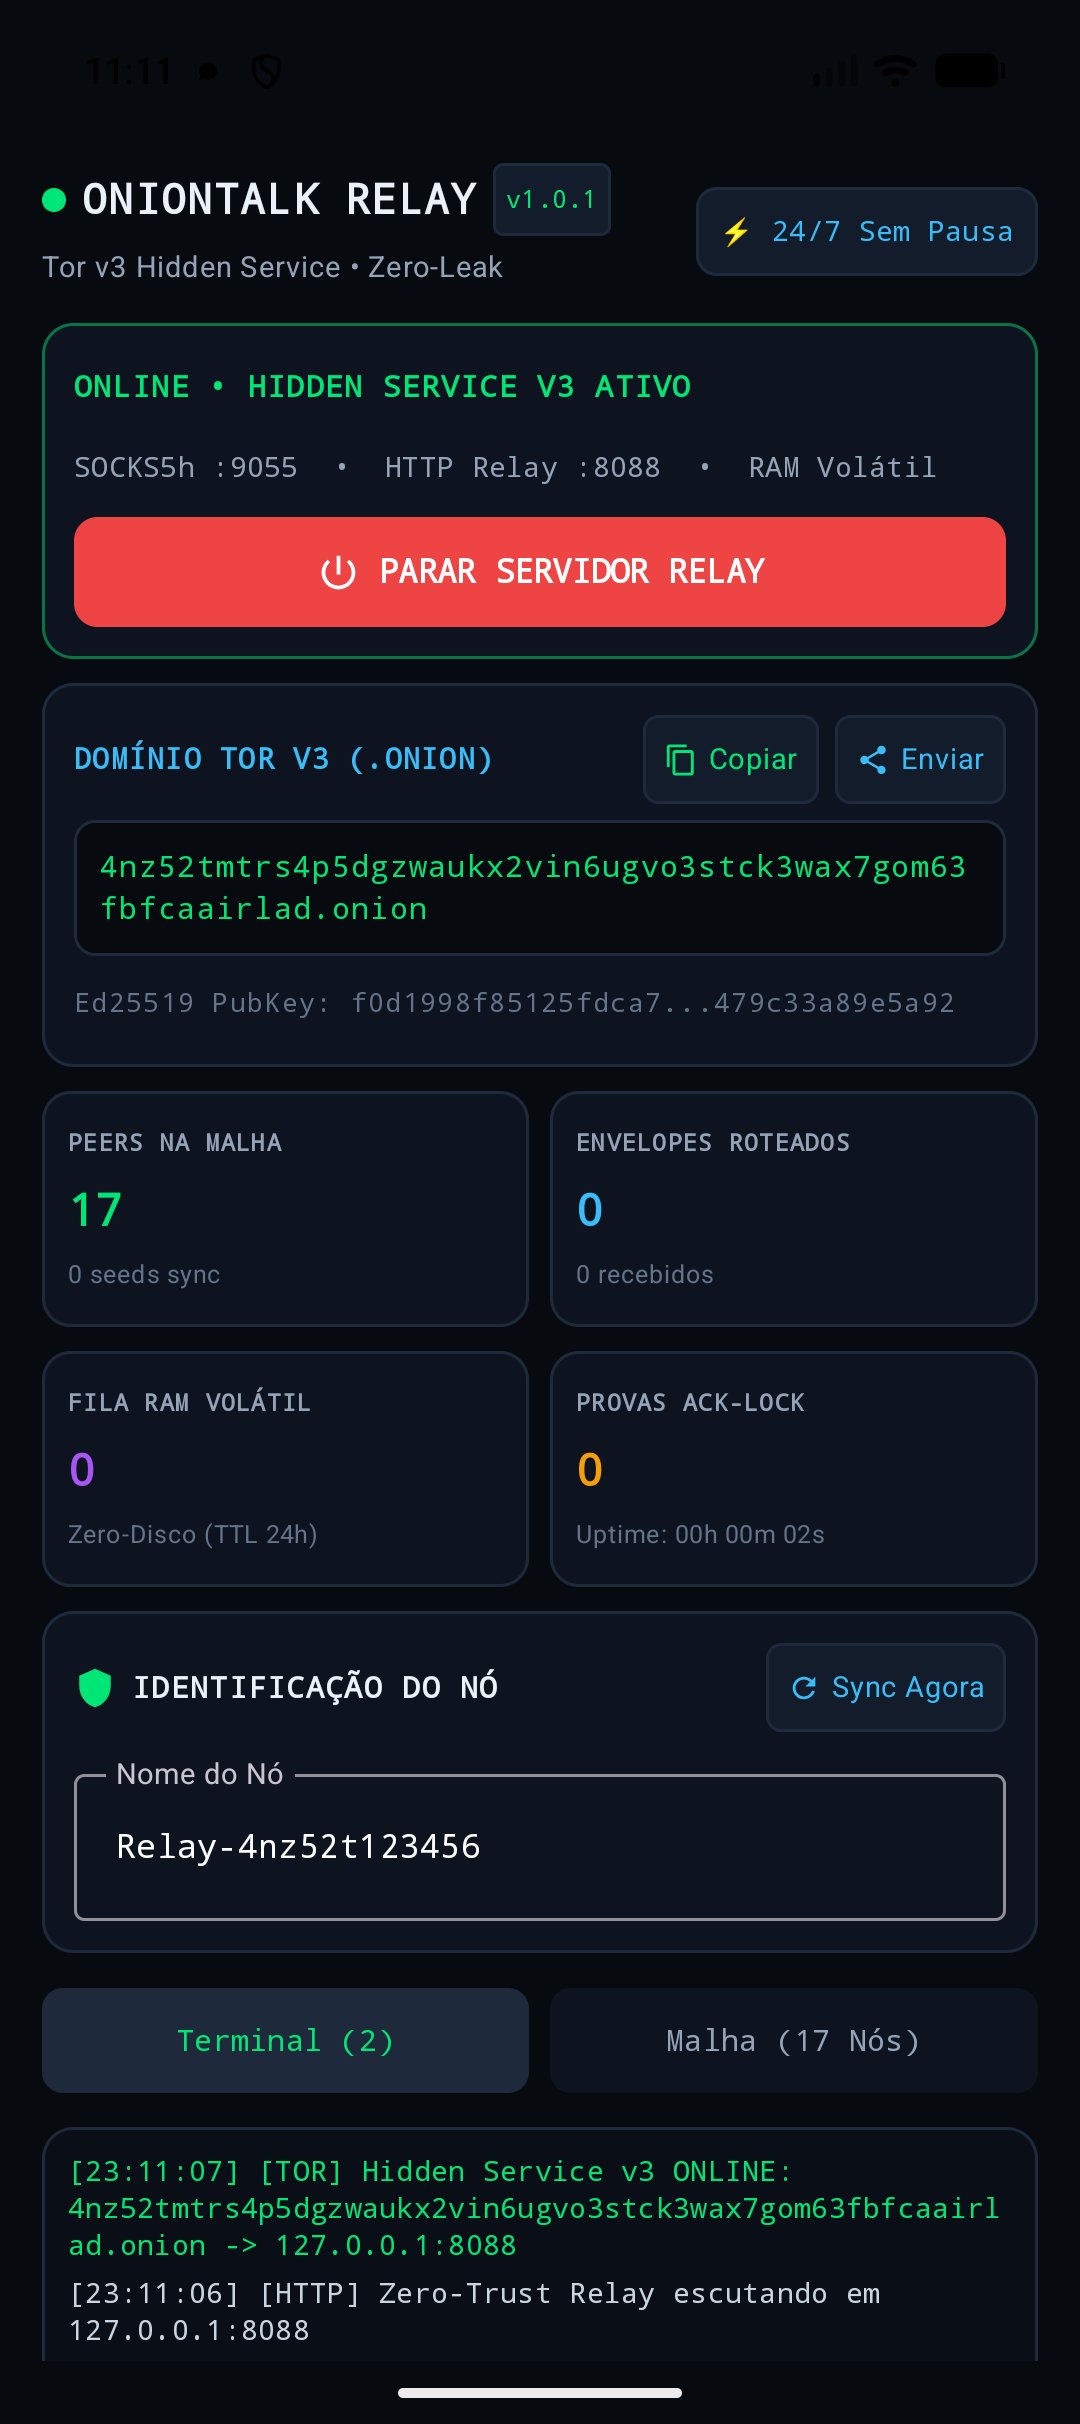
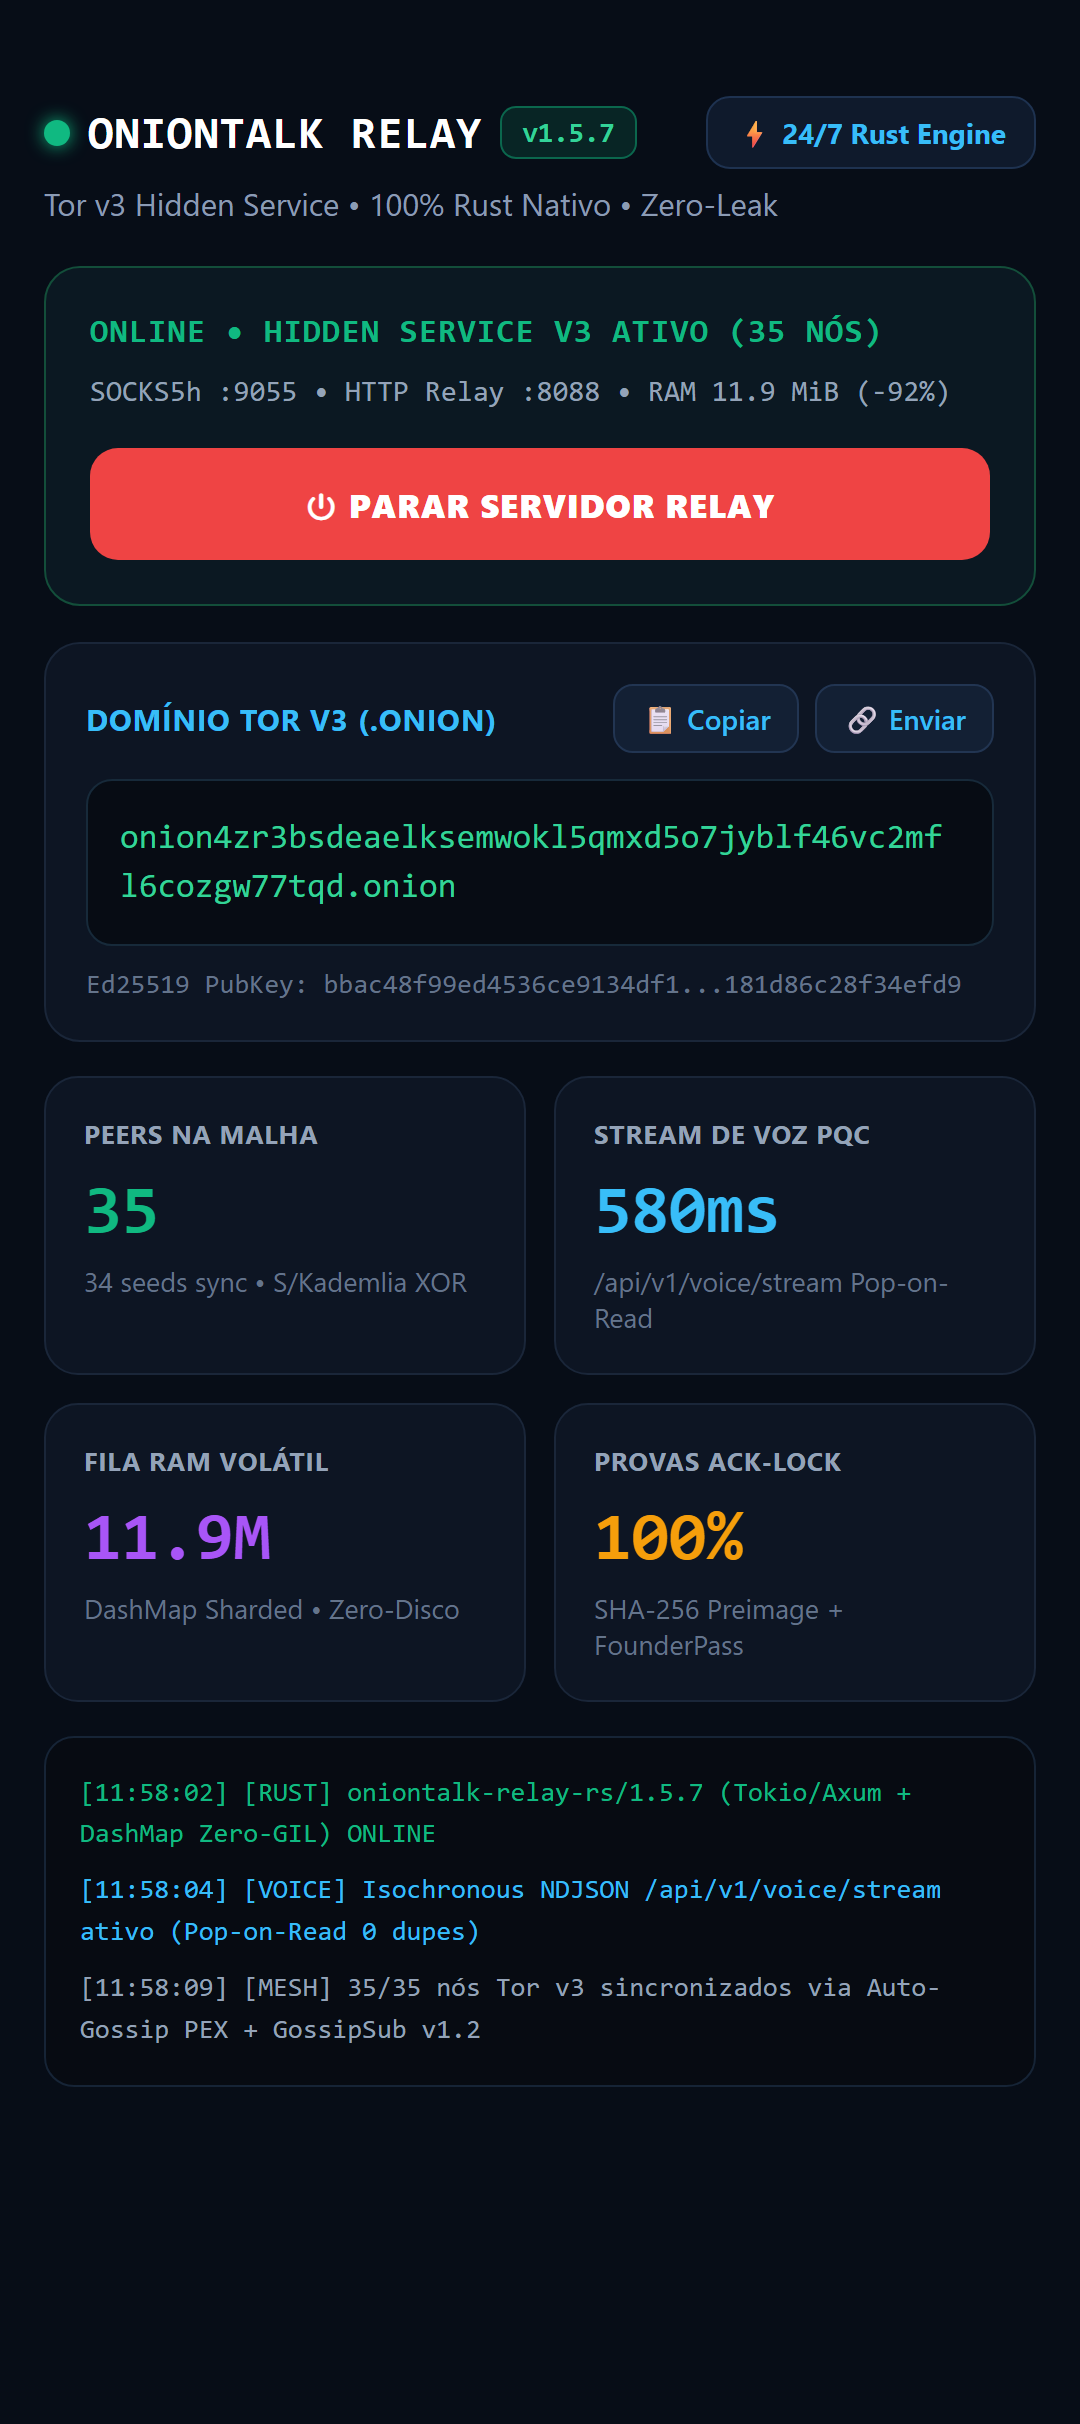
docs(profile): update org README & showcase screenshots to v1.5.7 (Build 51) & Rust Relay

diff --git a/profile/README.md b/profile/README.md
@@ -40,14 +40,20 @@
 
 ---
 
-## 🚀 What's New in `v1.5.4` (`versionCode = 48` / Build 48) & Relay Node `v1.5.2` (`Build 11`) & Mesh `v=31` — Sovereign PQC Groups, In-RAM Image Blur Studio, Post-Quantum Hybrid Encryption (`ML-KEM-768`), Dual Warm Socket Pool (`~1.13s` E2E) & 20-Node Zero-Leak Mesh
+## 🚀 What's New in `v1.5.7` (`versionCode = 51` / Build 51) & Relay Node `v1.5.7` (100% Rust Native `oniontalk-relay-rs`) — Sub-700ms OnionVoice V1 PQC Voice Calls, Pop-on-Read Voice Stream, Sovereign PQC Groups, Real Web Mic Recording & 35-Node Zero-Leak Mesh
 
-- **📦 Direct Signed APK Downloads & Web Container (`v1.5.4` — Latest Release Build 48)**:
-  - **Main Messenger APK (`org.oniontalk.messenger` `v1.5.4` Build 48)**: [**Download `OnionTalk.apk` (latest)**](https://github.com/onion-talk/oniontalk-demo/releases/latest/download/OnionTalk.apk) ([`SHA256SUMS.txt`](https://github.com/onion-talk/oniontalk-demo/releases/latest/download/SHA256SUMS.txt))
+- **📦 Direct Signed APK Downloads & Web Container (`v1.5.7` — Latest Release Build 51)**:
+  - **Main Messenger APK (`org.oniontalk.messenger` `v1.5.7` Build 51)**: [**Download `OnionTalk.apk` (latest)**](https://github.com/onion-talk/oniontalk-demo/releases/latest/download/OnionTalk.apk) ([`SHA256SUMS.txt`](https://github.com/onion-talk/oniontalk-demo/releases/latest/download/SHA256SUMS.txt))
   - **Standalone Android Relay Node APK (`org.oniontalk.relaynode` `v1.5.2` Build 11)**: [**Download `OnionTalk-RelayNode.apk` (latest)**](https://github.com/onion-talk/oniontalk-relay/releases/latest/download/OnionTalk-RelayNode.apk) ([`SHA256SUMS.txt`](https://github.com/onion-talk/oniontalk-relay/releases/latest/download/SHA256SUMS.txt))
   - **🐳 Desktop & Web Container + Embedded Tor v3 Relay (`Windows / Linux / macOS`)**: [**`eriktonon/oniontalk-web:latest`**](https://hub.docker.com/r/eriktonon/oniontalk-web) ![Docker tag](https://img.shields.io/docker/v/eriktonon/oniontalk-web?sort=semver&label=tag&style=flat-square) — Self-contained Rust Black-Box Web Messenger + active Tor v3 Hidden Service Relay listening on `127.0.0.1:8420`.
+  - **🦀 100% Rust Native Relay Container (`oniontalk-relay-rs v1.5.7`)**: [**`eriktonon/oniontalk:latest`**](https://hub.docker.com/r/eriktonon/oniontalk) — Zero-Python Tokio/Axum + Sharded `DashMap` relay node (`11.9 MiB` RAM, `-92%` footprint) with isochronous `/api/v1/voice/stream`.
 
-- **🛡 Key Cryptographic & P2P Mesh Breakthroughs in `v1.5.4` (`Build 48` & Relay `Build 10`)**:
+| **1. OnionVoice V1 PQC Call (`v1.5.7`)** | **2. Sovereign PQC Groups & FounderPass** | **3. 100% Rust Relay Node & 35-Node Mesh** |
+| :---: | :---: | :---: |
+| <img src="https://raw.githubusercontent.com/onion-talk/.github/main/assets/screenshots/20-onionvoice-pqc-call-v157.png" width="260" alt="OnionVoice V1 PQC Voice Call" /> | <img src="https://raw.githubusercontent.com/onion-talk/.github/main/assets/screenshots/21-pqc-groups-founder-v157.png" width="260" alt="Sovereign PQC Groups and FounderPass" /> | <img src="https://raw.githubusercontent.com/onion-talk/.github/main/assets/screenshots/18-relay-node-android-v101.png" width="260" alt="OnionTalk Relay v1.5.7 Rust Engine" /> |
+| *Sub-700ms PQC voice calls over Tor v3 with WSOLA 1.17x + CoDel anti-clip and pop-on-read `/api/v1/voice/stream`.* | *Post-Quantum Groups (`ML-KEM-768`), Admin Criteria Sync (`__CTRL_GROUP_META_PQC_V1__`), `FounderPass` & sovereign local deletion.* | *`oniontalk-relay-rs v1.5.7` (`11.9 MiB` RAM, 0% Python) synchronized across 35 global `.onion` v3 nodes.* |
+
+- **🛡 Key Cryptographic, Voice & P2P Mesh Breakthroughs in `v1.5.7` (`Build 51` & Rust Relay `v1.5.7`)**:
   1. **Sovereign Post-Quantum Encrypted Groups (`PQC Groups`) & Anti-Spam Proof-of-Community**: End-to-end encrypted multi-party group chats over Tor v3 with zero central member servers. Group creation unlocks automatically via organic local proof-of-community (`3+ mutual contacts` + `5+ days of vault maturity`, evaluated 100% locally) or immediately via an offline `Ed25519`-signed **`FounderPass`** certificate granted to community Relay Node Operators (`2+ hours active uptime`) or voluntary crypto supporters.
   2. **In-RAM Image Blur & Pixelation Studio + Zero-EXIF Sanitizer**: Built-in tactile brush editor (`Gaussian Blur` & `Mosaic Pixelate`) operating strictly in volatile RAM before encryption, combined with 100% EXIF/GPS header stripping and Least Significant Bit (`LSB`) anti-fingerprinting jitter.
   3. **Hybrid Post-Quantum Cryptography (`__ENC_PQC_KYBER768_X25519_V3__`)**: Combines classical **Dual X25519 ECDH** with **NIST FIPS 203 ML-KEM-768 (`Kyber-768`)** key encapsulation via `HKDF-SHA256` + `ChaCha20-Poly1305 AEAD` + `Ed25519` outer envelope signatures to protect against *Harvest Now, Decrypt Later* quantum adversaries.
@@ -168,8 +174,8 @@ This organization follows a modular structure for the OnionTalk protocol, relay 
 | Repository | Role | Stack | Status |
 | :--- | :--- | :--- | :--- |
 | [**`oniontalk-demo`**](https://github.com/onion-talk/oniontalk-demo) | Official Google Play App Link & Step-by-Step Visual Walkthrough (*Pablo & Bruna* Dual-Emulator Demo) | Android, SQLCipher, Tor v3, Documentation | ![Active](https://img.shields.io/badge/Google_Play-available-00C853?style=flat-square) |
-| [**`onion-talk-web`**](https://hub.docker.com/r/eriktonon/oniontalk-web) | Self-Contained Desktop & Web Client + Embedded Tor v3 Hidden Service Relay (`eriktonon/oniontalk-web:latest`, Private Source / Public Hardened Image) | Rust, Axum, Argon2id, ChaCha20-Poly1305, X3DH, Tor v3, Docker | ![Docker](https://img.shields.io/badge/Docker_Hub-v1.5.0--build36-2496ED?style=flat-square&logo=docker&logoColor=white) |
-| [**`oniontalk-relay`**](https://github.com/onion-talk/oniontalk-relay) | Zero-Knowledge Tor v3 Hidden Service Relay Node with Ed25519-Authenticated Gossip PEX, RAM-Only Volatile Queues, and Cryptographic ACK Preimage Lock | Python 3.12, Flask, Gunicorn, Cryptography, Tor v3, Docker Compose | ![Active](https://img.shields.io/badge/status-production-00C853?style=flat-square) |
+| [**`onion-talk-web`**](https://hub.docker.com/r/eriktonon/oniontalk-web) | Self-Contained Desktop & Web Client + Embedded Tor v3 Hidden Service Relay (`eriktonon/oniontalk-web:latest`, Private Source / Public Hardened Image) | Rust, Axum, Argon2id, ChaCha20-Poly1305, X3DH, Tor v3, Docker | ![Docker](https://img.shields.io/badge/Docker_Hub-v1.5.7--build51-2496ED?style=flat-square&logo=docker&logoColor=white) |
+| [**`oniontalk-relay`**](https://github.com/onion-talk/oniontalk-relay) | Zero-Knowledge Tor v3 Hidden Service Relay Node with Ed25519-Authenticated Gossip PEX, RAM-Only Volatile Queues, and Cryptographic ACK Preimage Lock | Rust 1.85, Tokio, Axum, DashMap, Ed25519/SHA3, Tor v3, Docker Compose | ![Active](https://img.shields.io/badge/status-production-00C853?style=flat-square) |
 | [**`oniontalk-protocol`**](https://github.com/onion-talk/oniontalk-protocol) | OnionTalk Wire Protocol Specification, 4-Layer Cryptographic Stack, Epidemic Gossip Routing, and Anti-Censorship Manifesto | Markdown, Mermaid, Cryptographic Specs | ![Active](https://img.shields.io/badge/status-stable-1F6FEB?style=flat-square) |
 | [**`.github`**](https://github.com/onion-talk/.github) | Organization Profile, Community Health Files, Security Disclosure Policy, and Funding Configuration | GitHub Actions, YAML, Markdown | ![Active](https://img.shields.io/badge/status-active-00C853?style=flat-square) |
 
